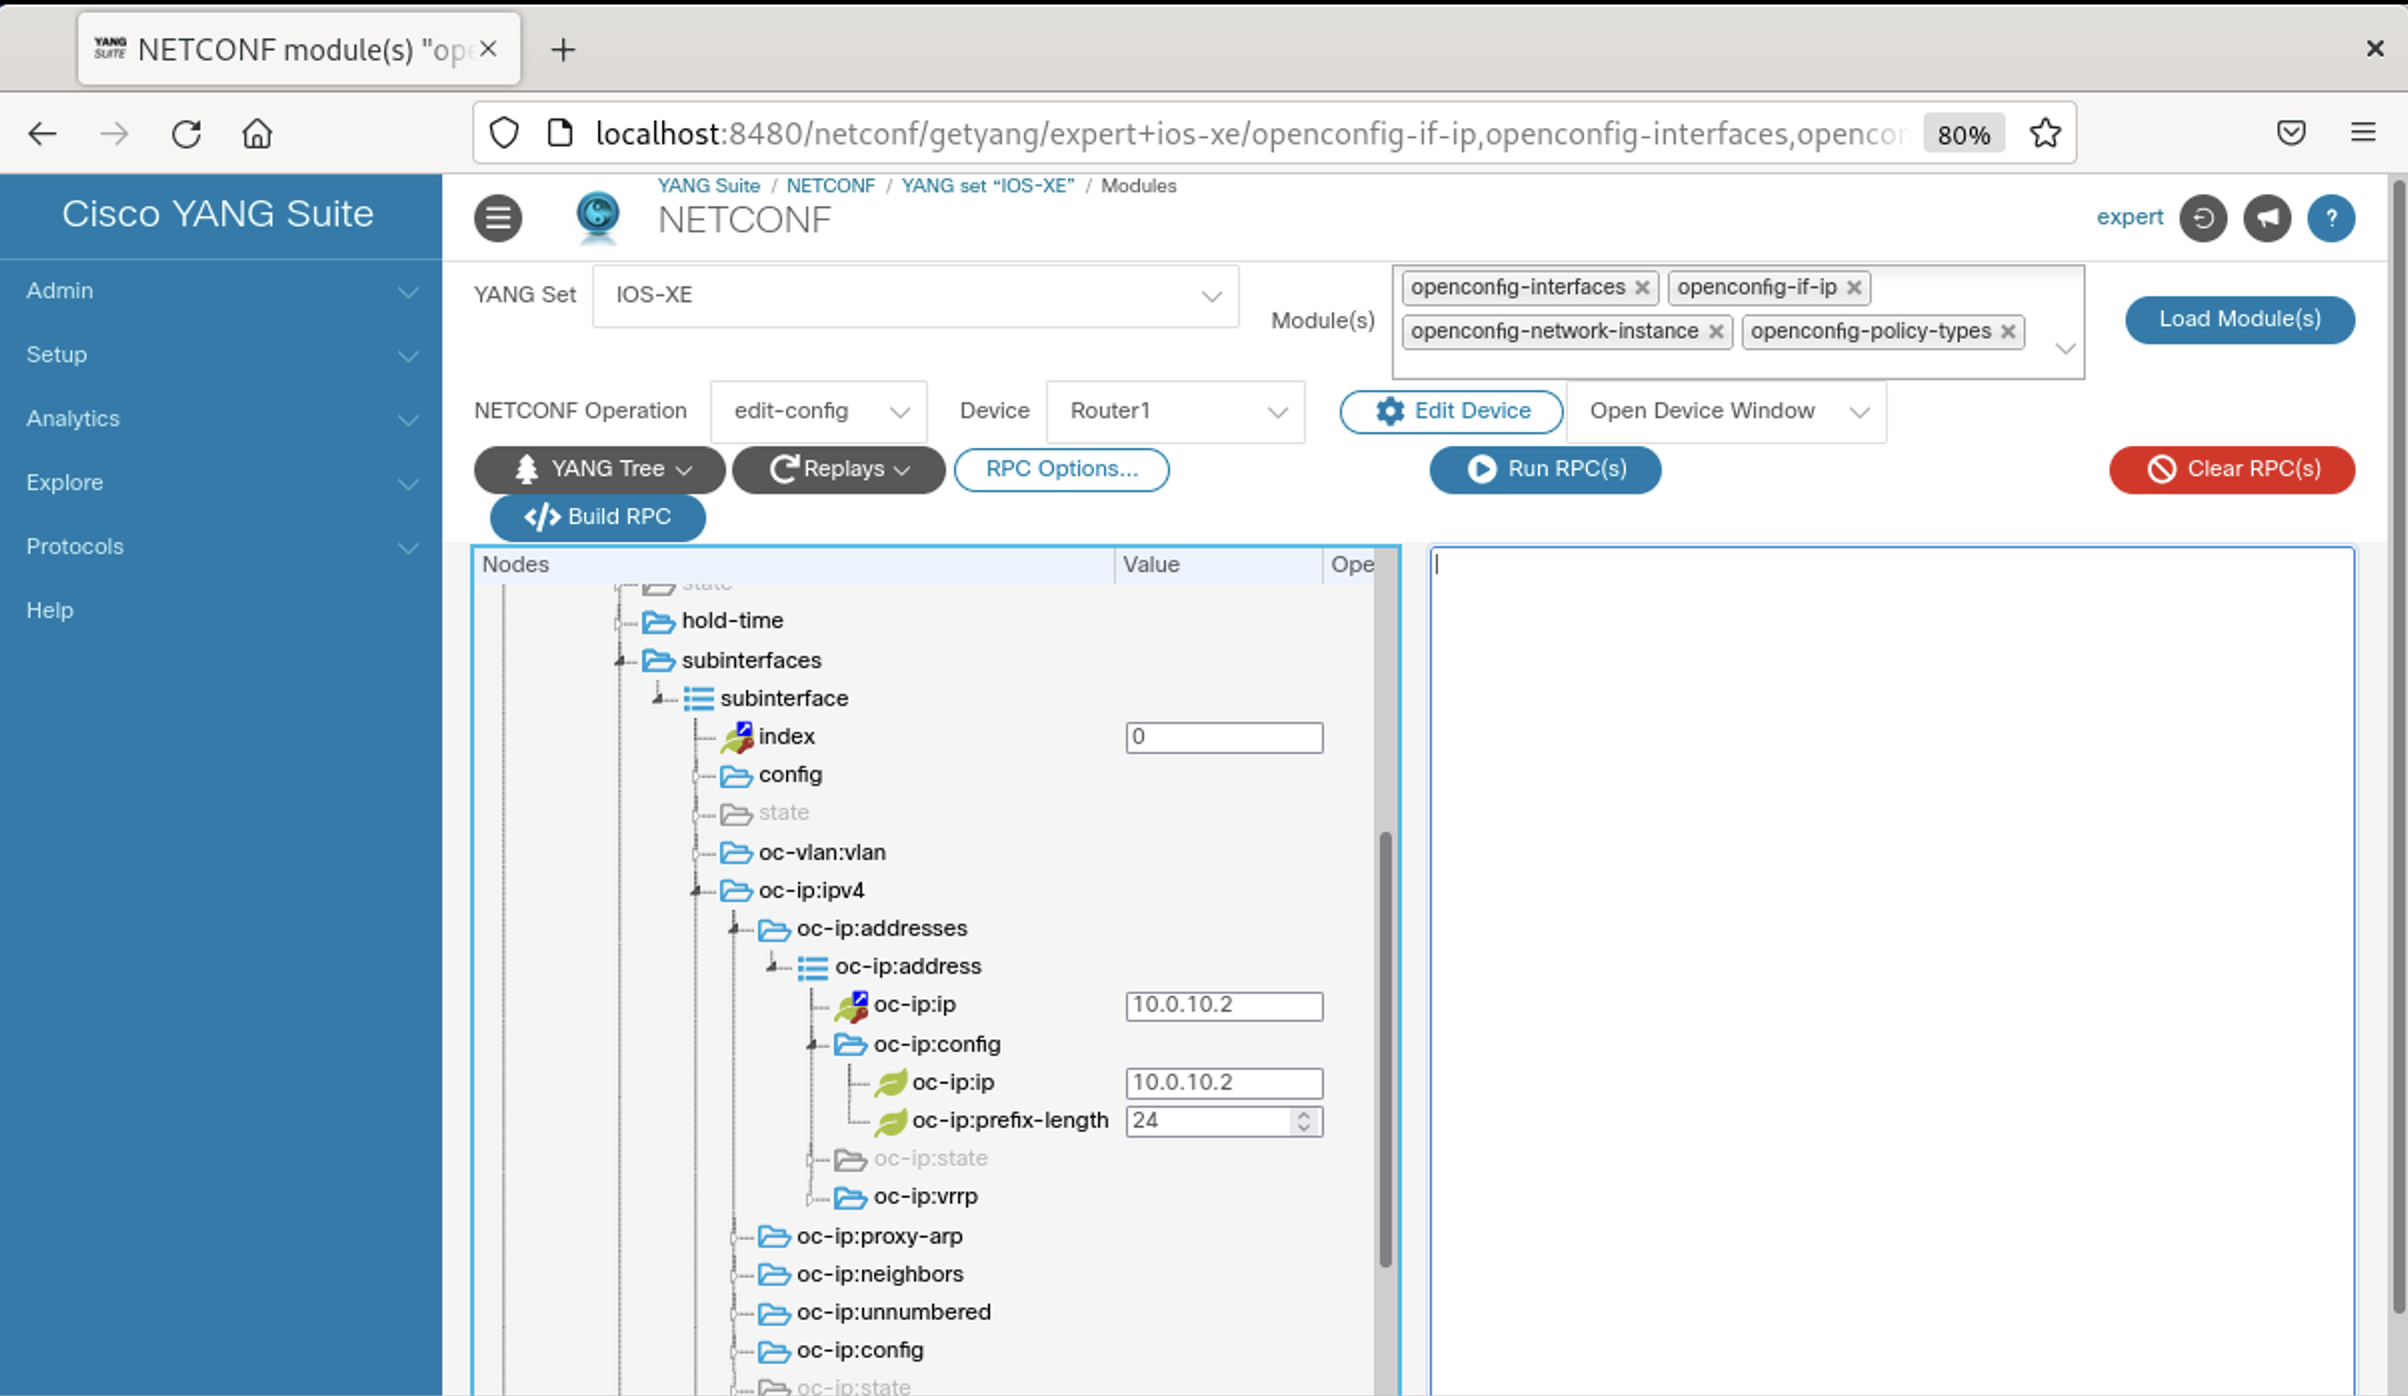
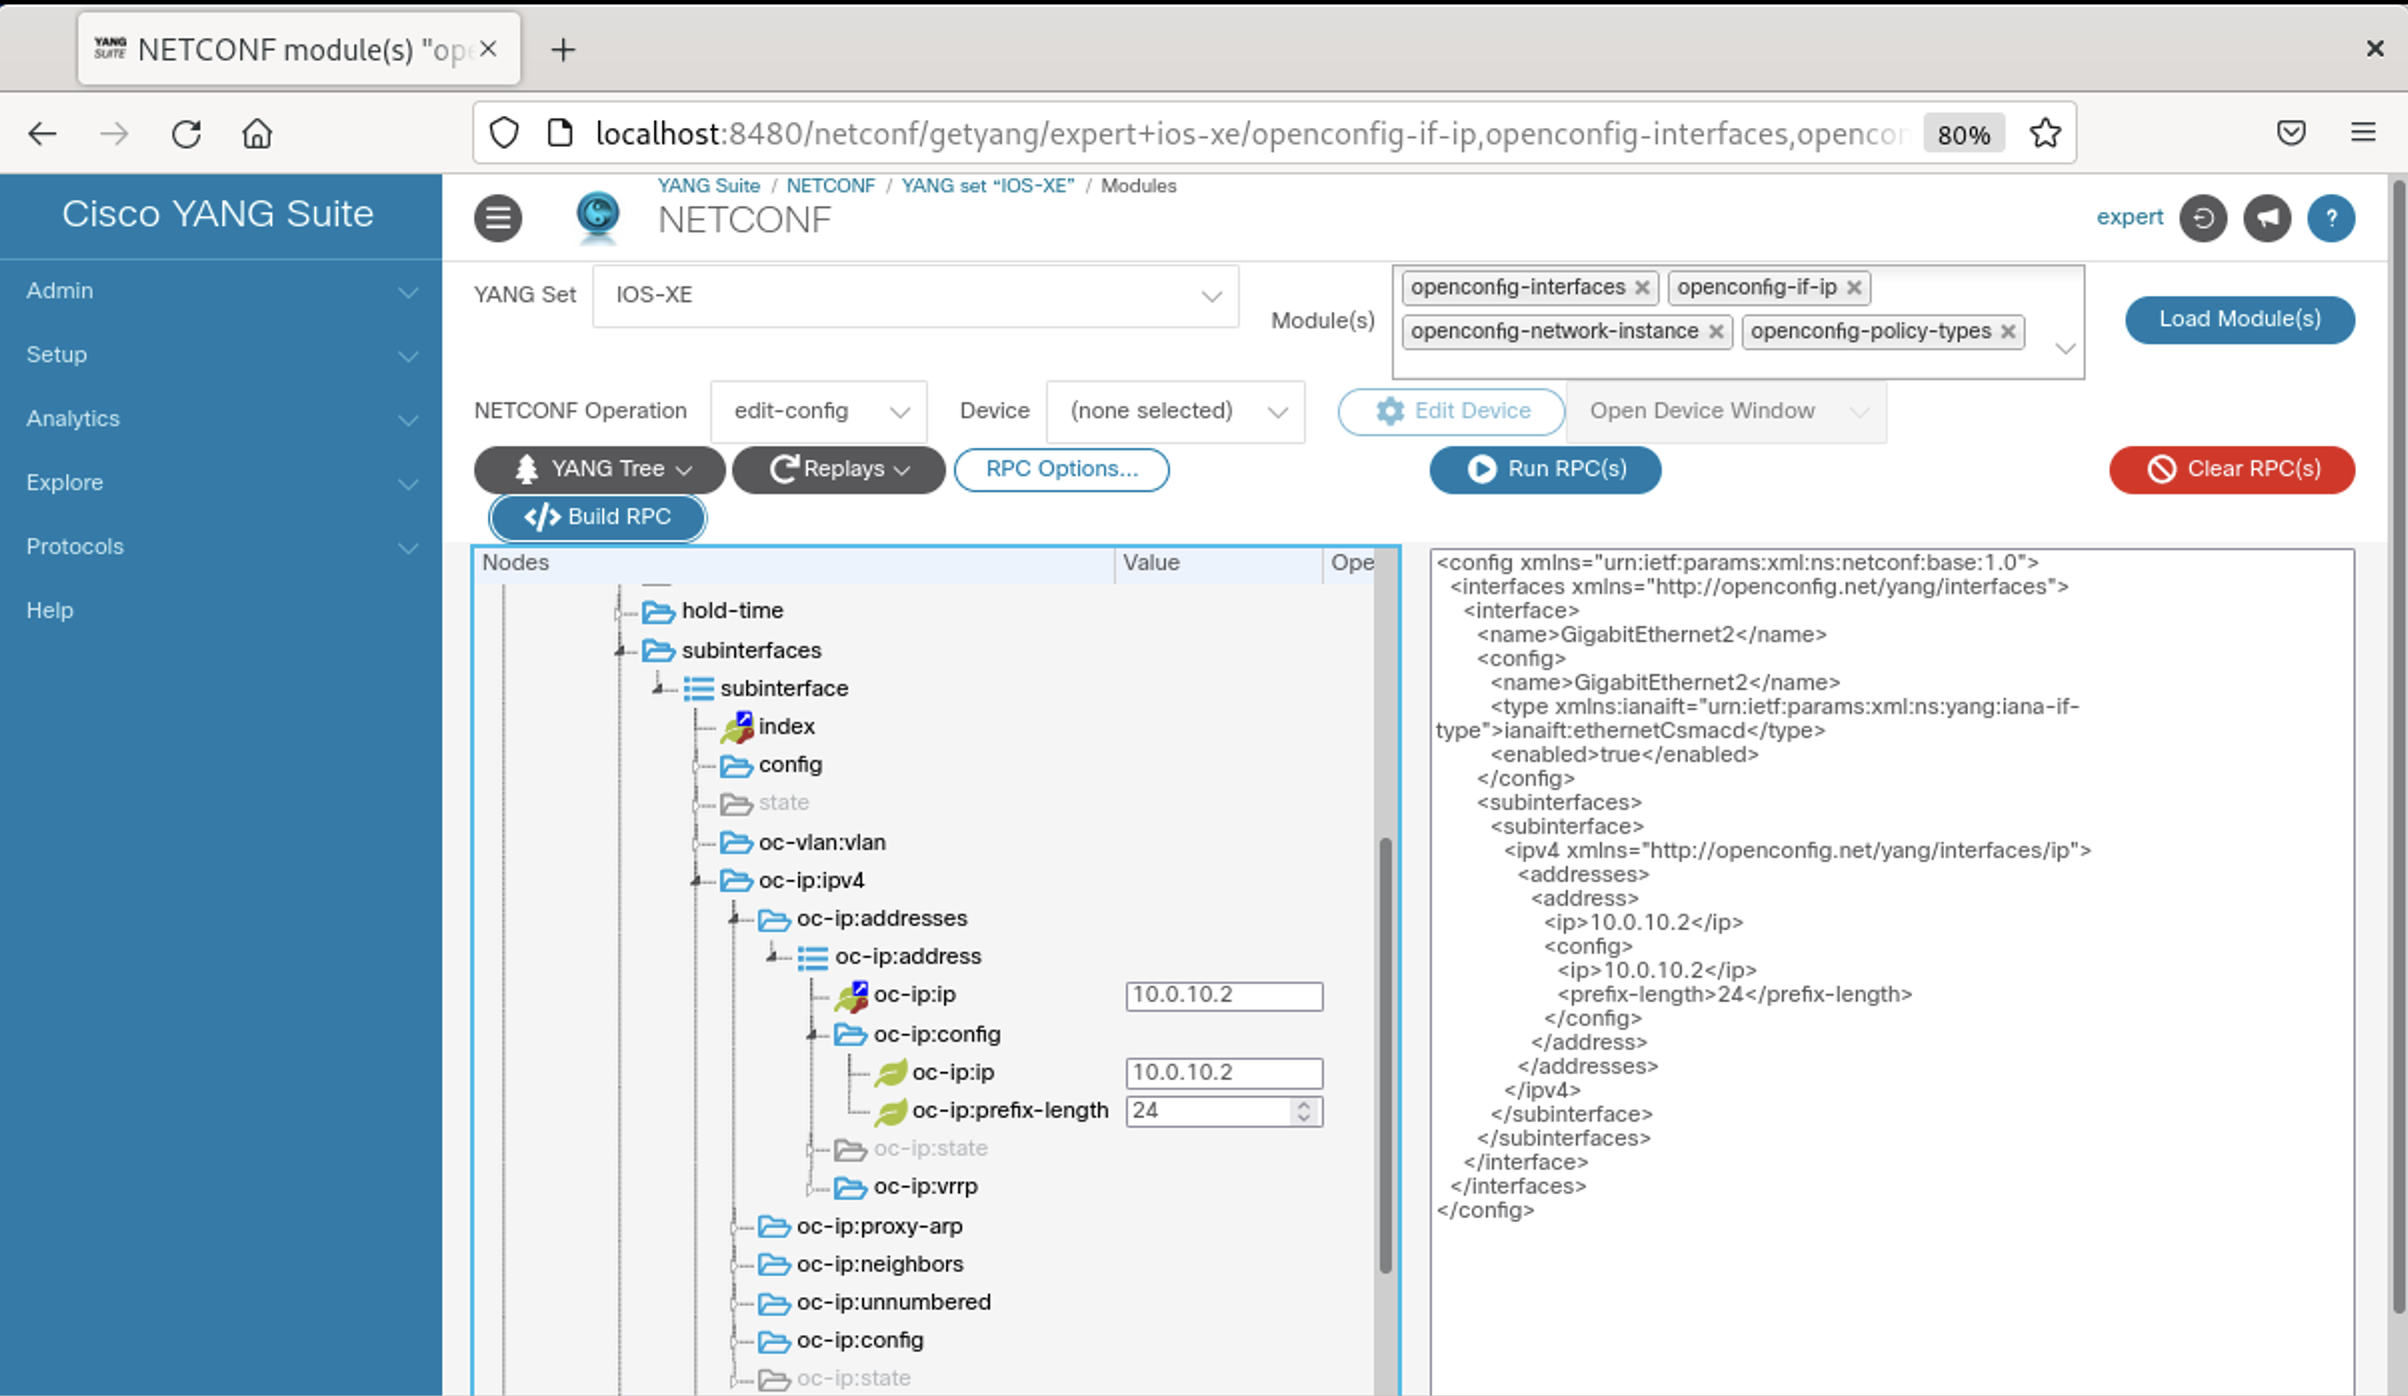
completed Router2 part and started intro for Nexus1

diff --git a/_posts/2024-02-20-netconf-nxos.md b/_posts/2024-02-20-netconf-nxos.md
@@ -88,7 +88,7 @@ Scroll further down to the **ip** container, expand it, and then choose **addres
 *Screenshot 5: First XML config payload for interfaces from the Cisco-IOS-XE-native module.*
 
 {: style="text-align: justify" }
-You could use YANG Suite now to do a RPC to **Router1** in a new browser tab and send the payload when clicking on **Run RPC(s)**. But for now we move on to the BGP configuration part which can be found at the **router** container and the **ios-bgp:bgp** list element. The leaf **ios-bgp:id** is the key and it represents the AS number *65001* in our case. Expand the list element **ios-bgp:neighbor**, add the neighbor ID *10.0.10.2* as value of the **ios-bgp:ip** leaf item, and add *65002* to the **ios-bgp:remote-as** leaf item. Click the red **Clear RPC(s)** button to clear the XML payload section and click **Build RPC(s)** again to re-create the XML payload.
+You could use YANG Suite now to do a RPC to **Router1** in a new browser tab and send the payload when clicking on **Run RPC(s)**. But for now we move on to the BGP configuration part which can be found at the **router** container and the **ios-bgp:bgp** list element. The leaf **ios-bgp:id** is the key and it represents the AS number *65001* in our case. Expand the list element **ios-bgp:neighbor**, add the neighbor ID *10.0.10.2* as value of the **ios-bgp:ip** leaf item, and add *65002* to the **ios-bgp:remote-as** leaf item. Click the red **Clear RPC(s)** button to clear the XML payload section before clicking **Build RPC(s)** again otherwise the new added XML payload data will be added to the existing data instead of re-creating the whole thing.
 
 ![Native YANG BGP](/images/netconf_native_bgp.png "Native YANG BGP")
 *Screenshot 6: All XML config payload parts from the Cisco-IOS-XE-native module.*
@@ -165,6 +165,7 @@ So far so good. The complete XML config payload for Router1 from IOS-XE native m
 
 #### Router2 - XML config payload using the OpenConfig YANG model for IOS-XE
 
+{: style="text-align: justify" }
 For the usage of OpenConfig YANG modules you need to choose all the single modules you need to build XML payload for and not only the single native module like we did for Router1 before. We select *IOS-XE* on the **YANG Set** from the Dropdown menu, but this time we search and select the following OpenConfig YANG modules:
 
 - *openconfig-interfaces*
@@ -172,20 +173,50 @@ For the usage of OpenConfig YANG modules you need to choose all the single modul
 - *openconfig-network-instance*
 - *openconfig-policy-types*
 
-You can find out how the various modules are linked together by using right click on the mouse while on a module in the YANG tree and choose **properties**. There is a lot of good information about the modules and which other submodules linked to it.
+{: style="text-align: justify" }
+You can find out how the various modules are linked together by using right click on the mouse while on a module in the YANG tree and choose **properties**. There is a lot of useful information about the modules and which other submodules linked to it. The same option is available from left menu at **Explore -> YANG** where you can load the individual modules and explore the details.
 
 ![OpenConfig YANG Module properties](/images/netconf_openconfig_properties.png "OpenConfig YANG Module properties")
 *Screenshot 5: OpenConfig YANG Module properties*
 
-Load the modules and make sure you selected the NETCONF operation ```<edit-config>```. Expand the **openconfig-interface** module as well as the **interfaces** container and the **interface** list element. Add the **name** *GigabitEthernet2* which is the key of the list element like it was for the native model. Expand the **config** container, add gain the interface **name**, choose *ianaift:ethernetCsmacd* for the **type** leaf, and select *true* for the **enabled** leaf element.
+{: style="text-align: justify" }
+Load the modules and make sure you selected the NETCONF operation ```<edit-config>```. You do not need to select a device as we will not do NETCONF RPC from YANG Suite for now. Expand the **openconfig-interface** module as well as the **interfaces** container and the **interface** list element. Add the **name** *GigabitEthernet2* which is the key of the list element like it was for the native model. Expand the **config** container, add gain the interface **name**, choose *ianaift:ethernetCsmacd* for the **type** leaf, and select *true* for the **enabled** leaf element.
 
 ![OpenConfig YANG Interfaces](/images/netconf_openconfig_interfaces1.png "OpenConfig YANG Interfaces")
 *Screenshot 6: OpenConfig YANG Interfaces*
 
-The IP configuration is a little bit hided in the OpenConfig YANG models. Scroll down to the **subinterfaces** container, expand it, and expand **subinterface**. The key **index** needs to be *0* in the case you do not have a real subinterface which is some kind of confusing. Move on expand **oc-ip:ipv4 -> oc-ip:addresses -> oc-ip:address** and add *10.0.10.2* as **oc-ip:ip**. Expand the **oc-ip:config** container, add the IP address at **oc-ip:ip** again, and add *24* as **oc-ip:prefix-length**.
+{: style="text-align: justify" }
+The IP address configuration is a little bit hided in the OpenConfig YANG models. Scroll down to the **subinterfaces** container, expand it, then expand the **subinterface** list element. The key **index** needs to be *0* in the case that you do not have a subinterface which is some kind of confusing but the IP addresses need to be set there. Move on expand **oc-ip:ipv4 -> oc-ip:addresses -> oc-ip:address** and add *10.0.10.2* as **oc-ip:ip**. Expand the **oc-ip:config** container, add the IP address at **oc-ip:ip** again, and add *24* as **oc-ip:prefix-length**. Make sure that you have cleaned the XML payload section before you hit **Build RPC(s)** to take a look what we have so far.
 
 ![OpenConfig YANG Interfaces IP settings](/images/netconf_openconfig_interfaces2.png "OpenConfig YANG Interfaces IP settings")
 *Screenshot 7: OpenConfig YANG Interfaces IP settings*
+
+{: style="text-align: justify" }
+Let us move to the **openconfig-network-instance** model to create the configuration for BGP on Router2. Expand the **network-instances** container and the **network-instance** list element. The network instances are the layer-2, layer-3, or layer-2+layer-3 forwarding instances on a NX-OS device. In our case we are using the *default* network instance as **name** which is the key of the list. As the **default** network instance is already present on the device we do not need to use the **config** container in the **network-instance** and can move on to the **protocols** container.
+
+![OpenConfig YANG Network Instances](/images/netconf_openconfig_network_instances.png "OpenConfig YANG Network Instances")
+*Screenshot 8: OpenConfig YANG Network Instances*
+
+{: style="text-align: justify" }
+Expand the **protocols** container and the **protocol** list element. Now it is getting a little bit more complicated. The **identifier** of the protocol needs to be added as *oc-pol-types:INSTALL_PROTOCOL_TYPE* which is in our case *oc-pol-types:BGP*. Click into the value field before and then you see that there is a reference down to the **config** container, expand it, and you have a drop down where you can see the valid values to choose from.
+
+![OpenConfig YANG Protocols in Network Instances](/images/netconf_openconfig_protocols1.png "OpenConfig YANG Protocols in Network Instances")
+*Screenshot 9: OpenConfig YANG Protocols in Network Instances*
+
+{: style="text-align: justify" }
+As mentioned before we use *oc-pol-types:BGP* as **identifier** in the **protocol** list and in the **config** container. We do the same with *65002* for the **name** which is a unique name for the protocol instance. You can add whatever string you want but for better correlation I decided to use the BGP AS number.
+
+![OpenConfig YANG BGP Protocol in Network Instances](/images/netconf_openconfig_protocols2.png "OpenConfig YANG BGP Protocol in Network Instances")
+*Screenshot 10: OpenConfig YANG BGP Protocol in Network Instances*
+
+{: style="text-align: justify" }
+Scroll further down to the **bgp** container and expand it. Expand the **global** container as well and add the **as** number *65002* and the **router-id** of *2.2.2.2*. The move on to the **neighbor** container, expand it, and under the **neighbor** list element add the **neighbor-address** of Router1 which is *10.0.10.1*. Add the same value under the **config** container at the **neighbor-address** and use *65001* as **peer-as** which is the equivalent of the *remote-as* on the neighbor statement on the CLI.
+
+![OpenConfig YANG BGP Config](/images/netconf_openconfig_bgp.png "OpenConfig YANG BGP Config")
+*Screenshot 11: OpenConfig YANG BGP Config*
+
+{: style="text-align: justify" }
+Remember to clear the XML payload section using the **Clear RPC(s)** button and then hit **Build RPC(s)**. Similar as we did for Router1, we are able to replicate the XML payload for the other interfaces and BGP neighbors to complete the full XML payload for Router2. It should then look like example 3 below. Now there is only the NX-OS device **Nexus1** left.
 
 ```xml
 <config xmlns="urn:ietf:params:xml:ns:netconf:base:1.0">
@@ -312,7 +343,12 @@ The IP configuration is a little bit hided in the OpenConfig YANG models. Scroll
 </config>
 ```
 
+*Example 3: Complete XML config payload for Router2 from OpenConfig YANG models.*
+
 #### Nexus1 - XML config payload using the Native + OpenConfig YANG model for NX-OS
+
+{: style="text-align: justify" }
+For the NX-OS device I had several challenges during testing. Initially I wanted to use only the OpenConfig YANG modules to create the XML payload for the configuration. It quickly turned out that not all functions of the CLI were implemented in the OpenConfig YANG model for NX-OS, for example it is not possible to change an interface from a layer-2 to a layer-3 interface. On the CLI you would simply enter *no switchport* at the interface configuration and that's it. So I decided to use a combination of both YANG modules, the Native Cisco-NX-OS-device module and the OpenConfig modules. Furthermore I thought it would be a good idea to keep the configuration parts separated in to single files and send it later via NETCONF sequentially to the NX-OS device.
 
 First interfaces to layer3
 
@@ -334,6 +370,8 @@ First interfaces to layer3
   </System>
 </config>
 ```
+
+*Example 4: Physical interface XML config payload for Nexus1 from .*
 
 then ip addressing on interfaces...
 
